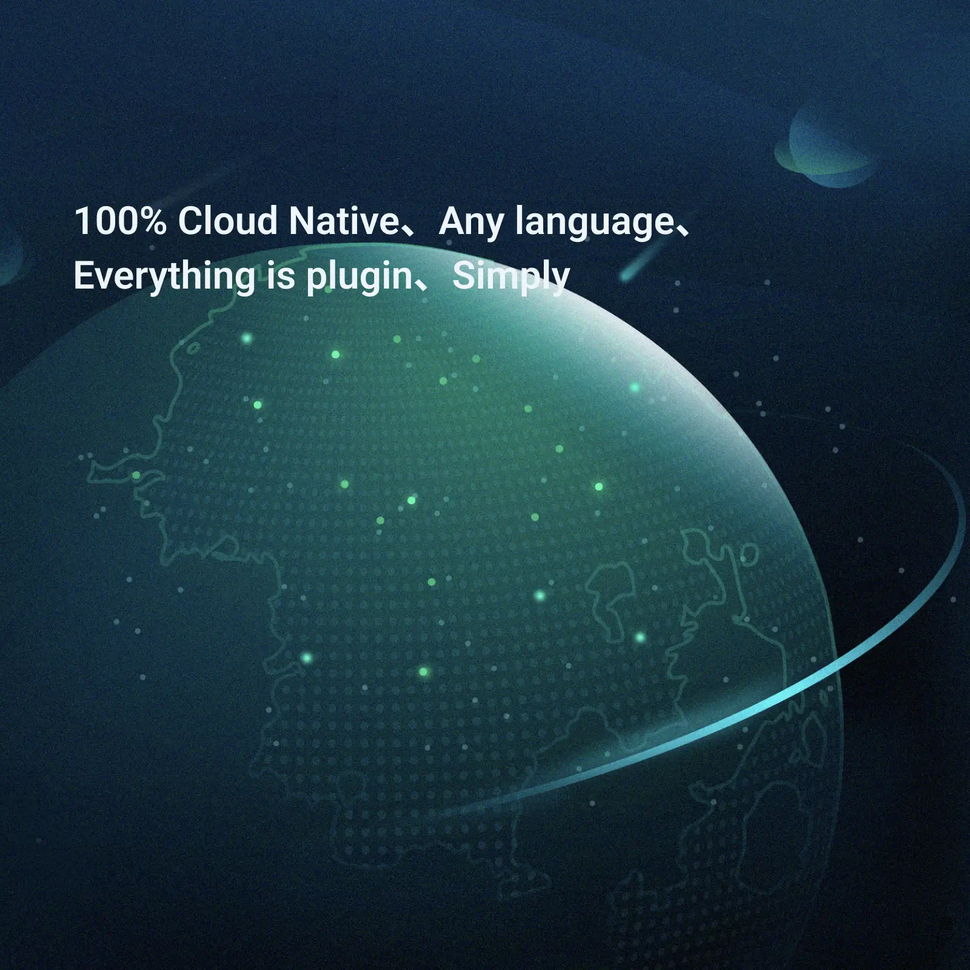
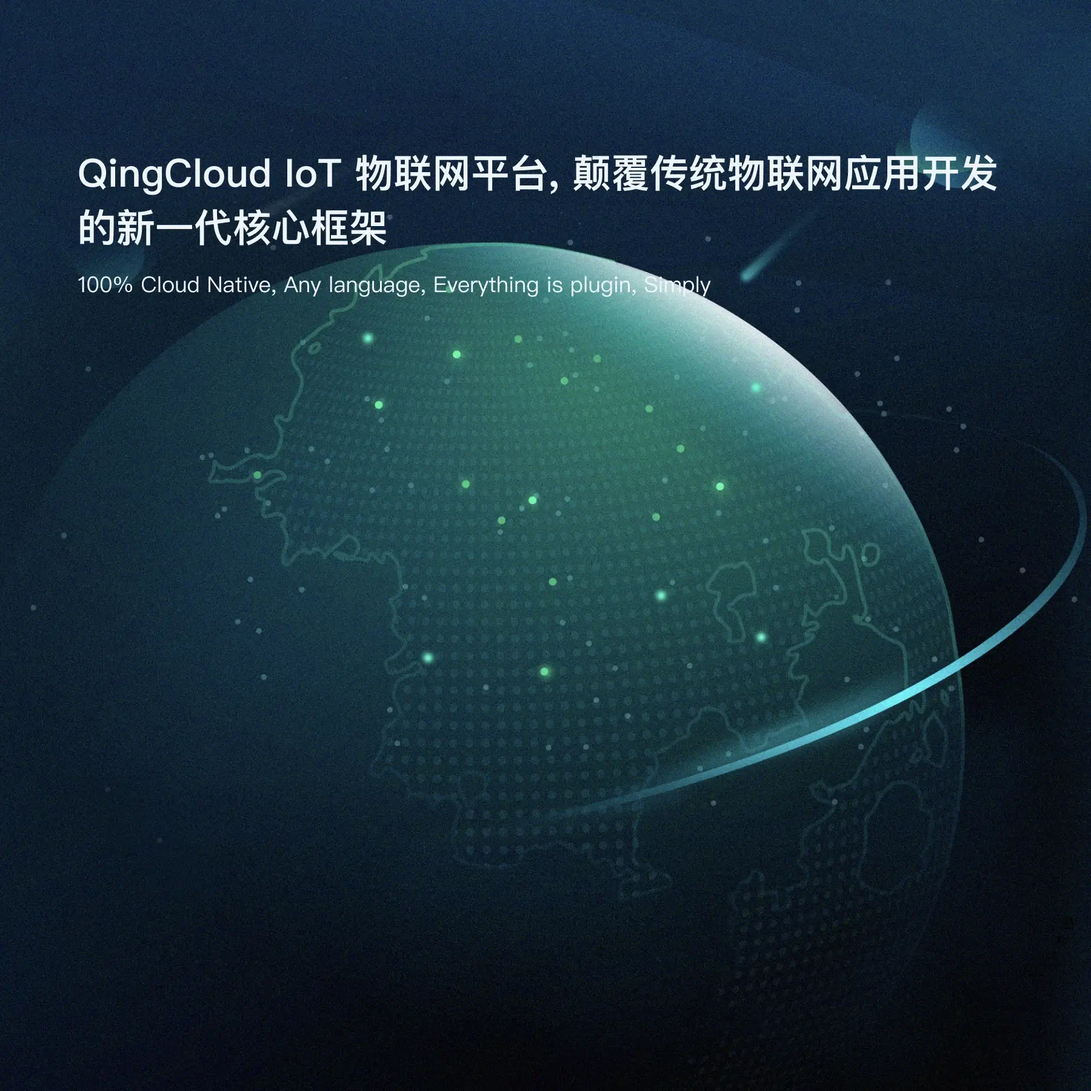
feat: change background

diff --git a/packages/tkeel-console-themes/src/appearances/tkeel/index.ts b/packages/tkeel-console-themes/src/appearances/tkeel/index.ts
@@ -1,10 +1,10 @@
 import type { Appearance } from '../types';
+import background from './assets/images/background-tkeel.webp';
 import logoMark from './assets/images/logo-mark.svg';
 import logoTypeAdminDark from './assets/images/logo-type-admin-dark.svg';
 import logoTypeAdminLight from './assets/images/logo-type-admin-light.svg';
 import logoTypeTenantDark from './assets/images/logo-type-tenant-dark.svg';
 import logoTypeTenantLight from './assets/images/logo-type-tenant-light.svg';
-import background from './assets/images/tkeel-background.webp';
 
 const APPEARANCE: Appearance = {
   common: {
